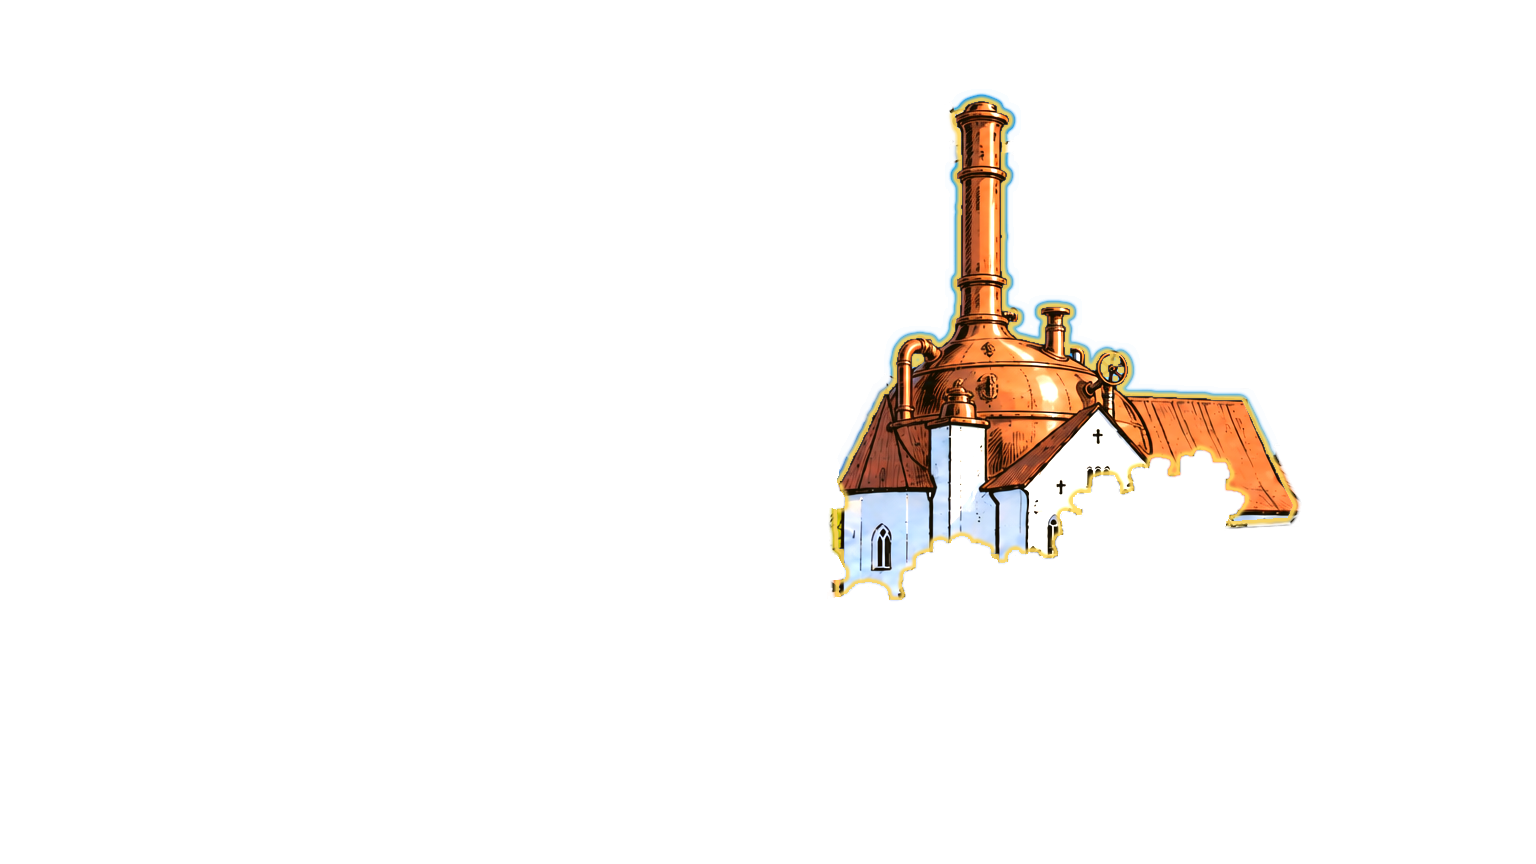
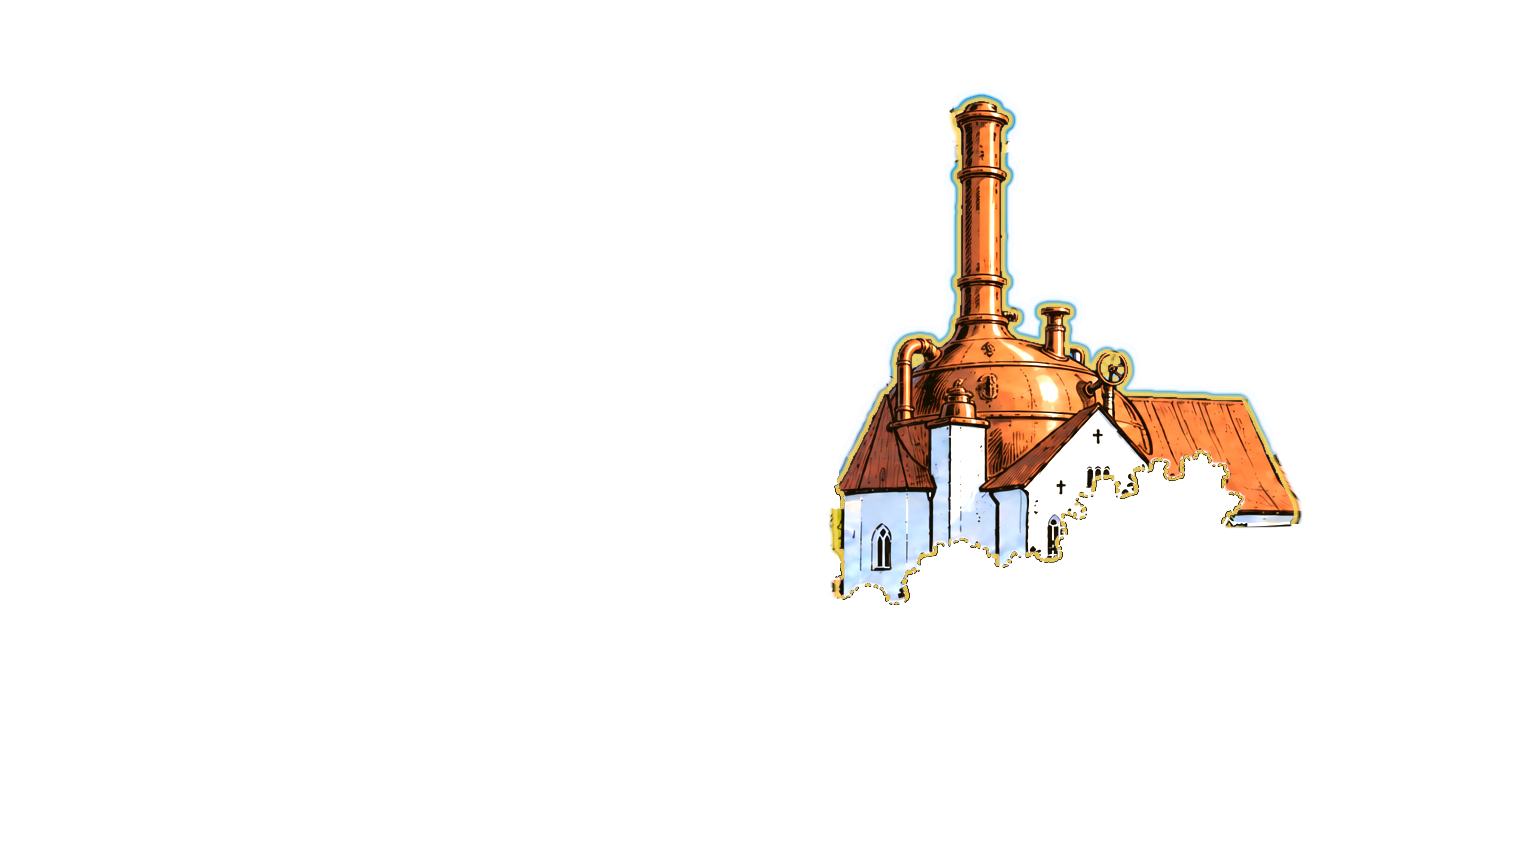
Base: brewery church glow on the bushes' black ink line; clean left wall and right roof end
Claude-Session: https://claude.ai/code/session_01GrbNTwVienMcpmsk1Pgq12

diff --git a/guides/DESIGNER_MANUAL.md b/guides/DESIGNER_MANUAL.md
@@ -4426,7 +4426,7 @@ picture and see-through everywhere but the building, so it lies over the
 background in the same place on any screen. Only the building takes the
 click (not the sky, trees or bushes in front). `<Village Art>_hover.png`, if
 there, is shown while the mouse is on it: the building brighter with a warm
-golden glow hugging its outline all the way round (roof, walls, and along the bushes in front on the church side of their black ink line), kept tight so it does not spread into the mountains. **The church with the copper kettle
+golden glow hugging its outline all the way round (roof, walls, and along the bushes in front on their black ink line), kept tight so it does not spread into the mountains. **The church with the copper kettle
 is the Brewery** (`brewery_church`). The other buildings keep their old
 bird's-eye pictures at their old spots until each is drawn for the village.
 Cut-outs are made by `art_tool/base/brewery_hover/make_game_pieces.py`.
